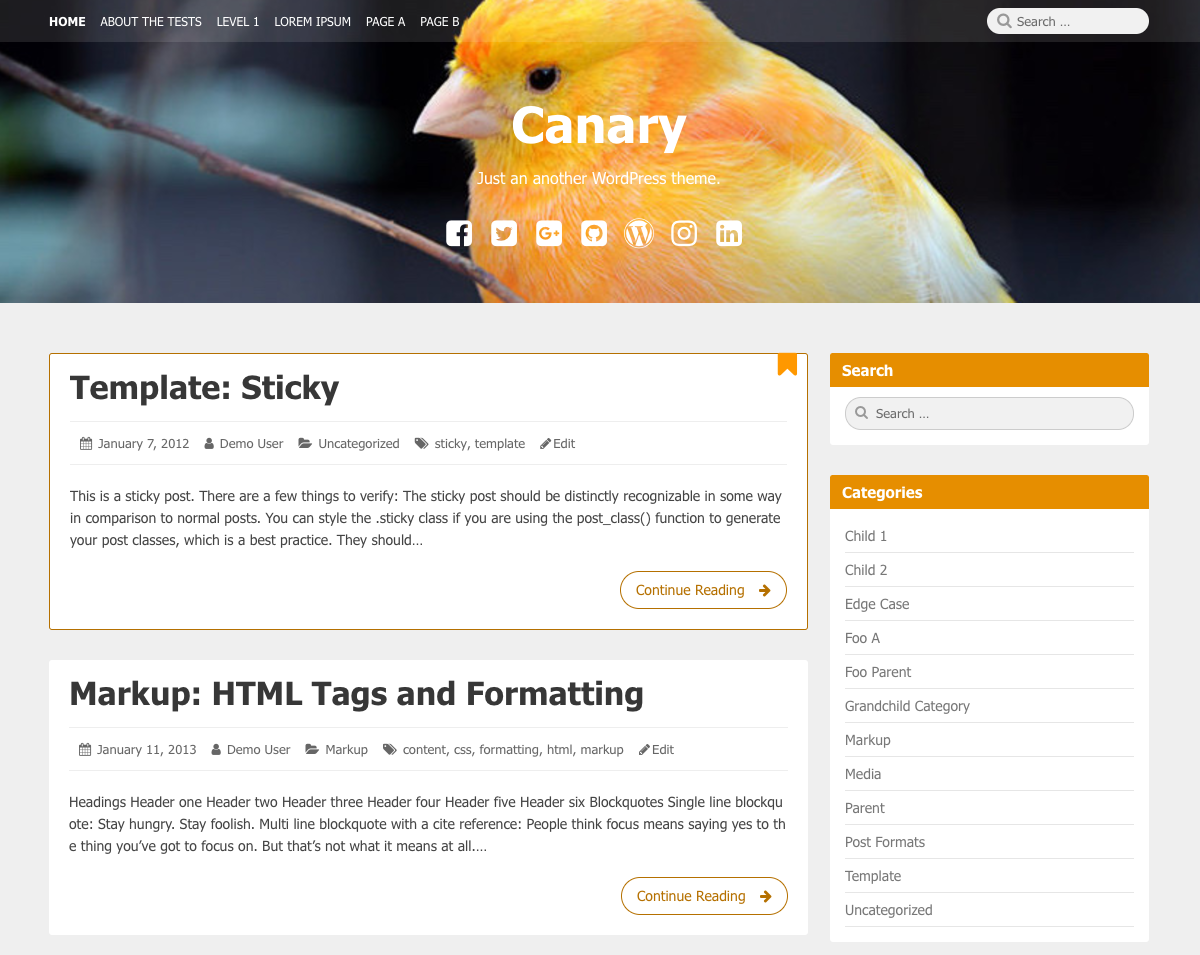
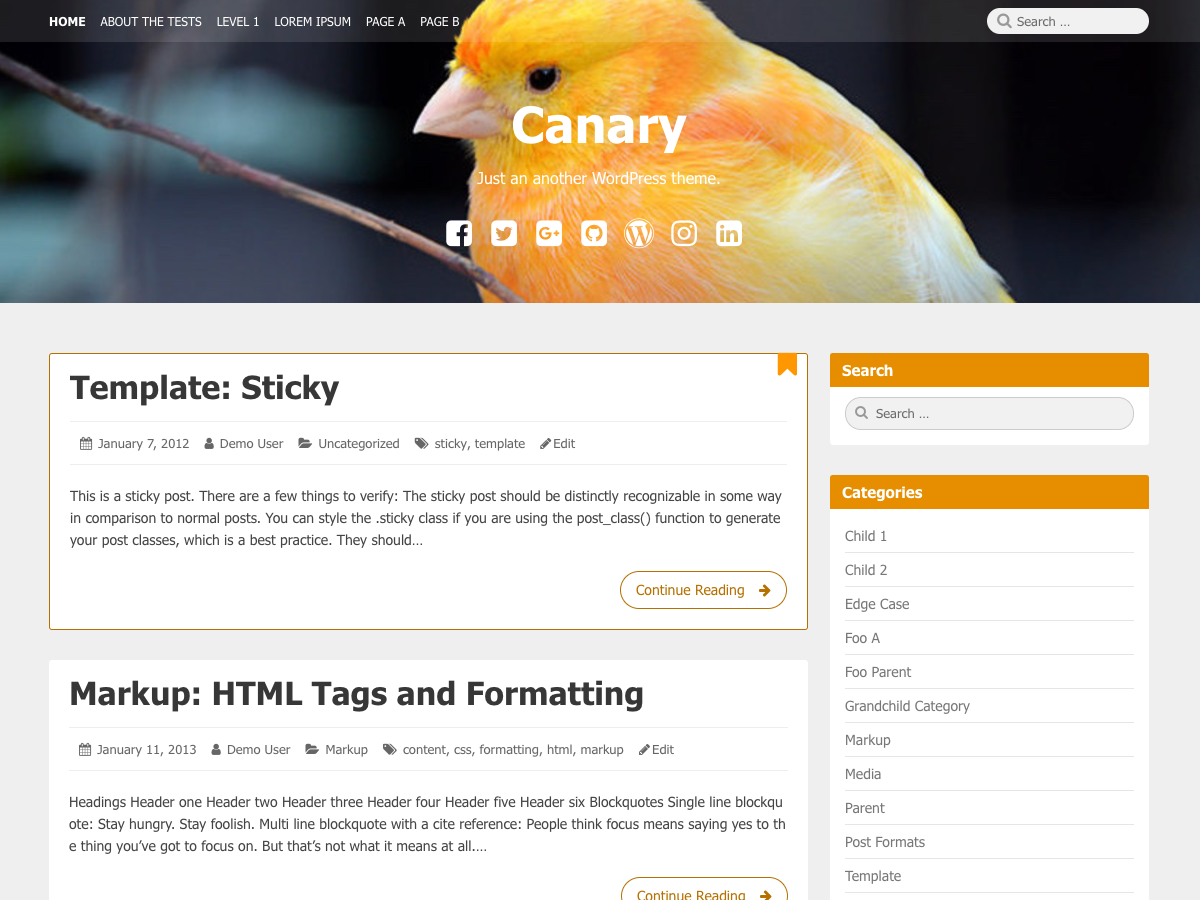
Add files via upload

diff --git a/style.css b/style.css
@@ -5,10 +5,10 @@
 	Author: Linesh Jose
 	Author URI: https://linesh.com/
 	Text Domain: canary
-	Version: 1.1
+	Version: 1.2
 	Description: Canary is clean, blog-focused, and designed for clarity, with simple, straightforward typography that's readable on a wide variety of screen sizes, and suitable for multiple languages.This theme, like WordPress, is licensed under the GPL. Use it to make something cool, have fun, and share what you've learned with others.
-	License: GNU General Public License v2 or later
-	License URI: http://www.gnu.org/licenses/gpl-2.0.html
+	License: GNU General Public License v3 or later
+	License URI: http://www.gnu.org/licenses/gpl-3.0.html
 	Tags:  two-columns, right-sidebar, custom-background, custom-colors, custom-header, custom-menu, featured-images, microformats, post-formats, sticky-post, threaded-comments
 */
 /* Default */
@@ -794,6 +794,7 @@ max-height: none;
 	margin:-50px 20px 0;
 	display:block;
 	background: #fff;
+	    text-align: center;
 	padding:10px 20px;
 }
 #main .hentry .entry-title, #main .hentry .entry-title a { color: #373737 !important; }

diff --git a/footer.php b/footer.php
@@ -30,15 +30,12 @@
              )
          );
     }?>
-    <p class="site-info centertext footer-copy"> <a href="<?php echo esc_url(home_url('/')); ?>" rel="home">&copy; <?php echo esc_html(date('Y'));?>
-      <?php bloginfo('name'); ?>
-      . </a><a href="<?php echo esc_url('https://wordpress.org/'); ?>">
-      <?php esc_html_e('Proudly powered by WordPress', 'canary'); ?>
-      . </a><a href="<?php echo esc_url('https://linesh.com/projects/canary/'); ?>">
-      <?php esc_html_e('Canary', 'canary'); ?>
-      </a>, <a href="<?php echo esc_url('https://linesh.com/'); ?>">
-      <?php esc_html_e('Theme by Linesh Jose', 'canary'); ?>
-      </a> </p>
+    <p class="site-info centertext footer-copy"> 
+    <a href="<?php echo esc_url(home_url('/')); ?>" rel="home"><span>&ncopy;&nbsp;</span><?php echo esc_html(date('Y'));?><span>&nbsp;</span><?php bloginfo('name'); ?><span>.</span></a>
+      <a href="<?php echo esc_url('https://wordpress.org/'); ?>"><?php esc_html_e('Proudly powered by WordPress.', 'canary'); ?></a>
+      <a href="<?php echo esc_url('https://linesh.com/projects/canary/'); ?>"><?php esc_html_e('Canary', 'canary'); ?></a><span>, &nbsp;</span> 
+      <a href="<?php echo esc_url('https://linesh.com/'); ?>"><?php esc_html_e('Theme by Linesh Jose', 'canary'); ?><span>.</span></a>
+      </p>
   </div>
 </footer>
 </div>

diff --git a/inc/main-funtions.php b/inc/main-funtions.php
@@ -189,12 +189,18 @@ function canary_active_sidebars(){
 
 
 // Post featured image --------------->
-	function canary_post_thumbnail($size=''){
-		$size=trim($size);
-		if(has_post_thumbnail()){ 
-			echo '<div class="entry-thumbnail"><a class="" href="'.esc_url(get_the_permalink()).'" aria-hidden="true">';
-			the_post_thumbnail( $size, array( 'alt' => get_the_title() ) );
-			echo '</a></div>';
+	function canary_post_thumbnail( $size='',$id='')
+	{
+		if( !($size=trim($size)) ){
+			$size='medium';
+		}
+		if( !($id=trim($id)) ){
+			$id=get_the_ID();
+		}
+		if(has_post_thumbnail($id)){ 
+			echo '<div class="entry-thumbnail">
+					<a class="" href="'.esc_url(get_the_permalink()).'">'.get_the_post_thumbnail( $id, $size, array( 'alt' => get_the_title() ) ).'</a>
+				</div>';
 		}
 	}
 
@@ -268,6 +274,8 @@ function canary_active_sidebars(){
 		echo '<div class="clear"></div>
 		</div>';
 	}
+
+
 	
 // Archive title ----------------------->
 	add_filter('get_the_archive_title','canary_filter_archive_title');	

diff --git a/content.php b/content.php
@@ -10,13 +10,14 @@
  */
 ?>
 <article id="post-<?php the_ID(); ?>" <?php post_class('post-content'); ?>>
-  <?php 
-    if(is_single() || is_page()){
-      canary_post_thumbnail('canary-post-big');
+<?php 
+if(is_single() || is_page() ){
+  if( is_page_template('page-full-width.php')) { canary_post_thumbnail('canary-post-wide'); }
 
-    }elseif( in_array( get_post_format(), array('aside','standard',''))){
-      canary_post_thumbnail('canary-post-big');
-    } ?>
+  else { canary_post_thumbnail('canary-post-single'); }
+
+}else{canary_post_thumbnail('canary-post-big');}
+?>
   
   <div class="entry-wrap <?php if(has_post_thumbnail()) echo 'img';?>">
     <header class="entry-header">

diff --git a/functions.php b/functions.php
@@ -1,5 +1,5 @@
 <?php
-if ( ! isset( $content_width ) ) $content_width = 1200;
+if ( ! isset( $content_width ) ) $content_width = 800;
 
 // canary- setup --------------->
 add_action( 'after_setup_theme', 'canary_setup' );
@@ -14,7 +14,9 @@ function canary_setup()
 		set_post_thumbnail_size( 150, 150,true ); 
 		add_image_size('canary-post-medium', 400, 250, true );
 		add_image_size('canary-post-big', 850,300, true );
+		add_image_size('canary-post-single', 800,0, false );
 		add_image_size('canary-post-wide', 1200,500, true );
+
 	add_theme_support( 'custom-logo', array(
 		'height'      => 36,
 		'width'       => 200,
